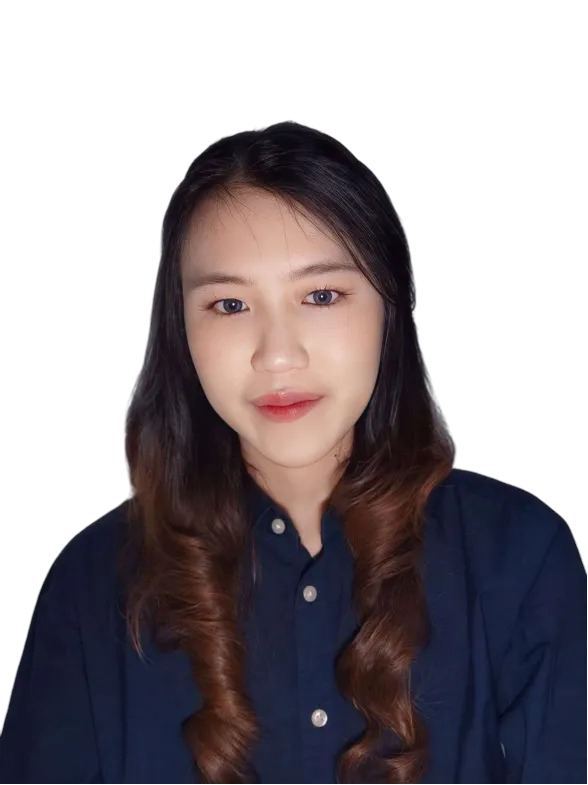
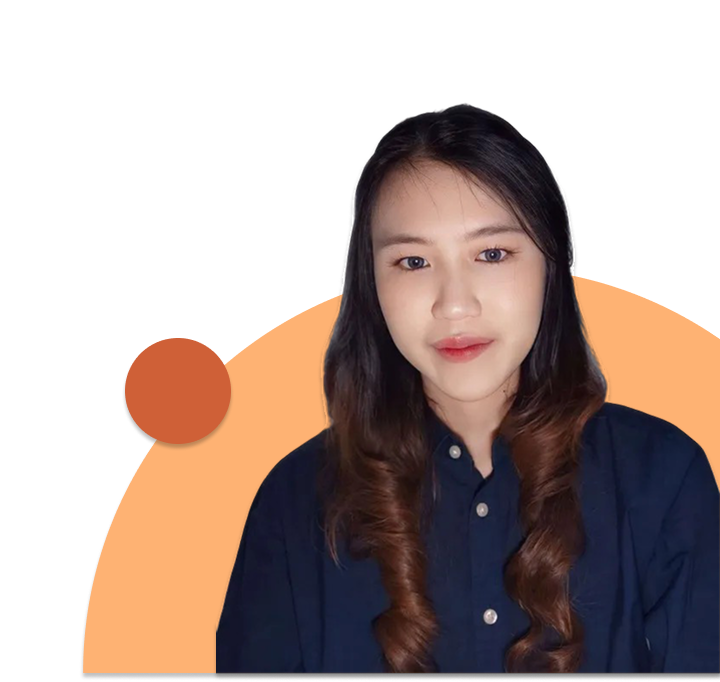
css

diff --git a/resources/css/home.css b/resources/css/home.css
@@ -2,17 +2,7 @@
 @import '/node_modules/primereact/resources/primereact.min.css';
 @import '/node_modules/primeicons/primeicons.css';
 
-/* *{
-    font-size: 1rem;
 
-}
-
-@media only screen and (max-width:768px){
-
-    *{
-        font-size: 0.8rem;
-    }
-} */
 
 h1 {
     font-weight: 900;
@@ -191,10 +181,114 @@ h6 {
 }
 
 .me {
-    width: 42rem;
     position: absolute;
-    top: 6.5rem;
+    top: 3.5rem;
     right: 0;
     bottom: 0;
     z-index: 0;
+}
+
+@media only screen and (max-width:768px){
+
+    *{
+        font-size: 0.8rem;
+    }
+
+
+    h1 {
+        font-size: 2rem;
+    }
+
+    h2 {
+        font-size: 1.75rem;
+    }
+
+    h3 {
+        font-size: 1.5rem;
+    }
+
+    h4 {
+        font-size: 1.25rem;
+    }
+
+    h5 {
+        font-size: 1rem;
+    }
+
+    h6 {
+        font-size: 0.75rem;
+    }
+
+    .navbar {
+        font-size: 0.7rem;
+        width: 100%;
+    }
+
+    .me {
+        position: absolute;
+        top: 18rem;
+        right: 0rem;
+    }
+
+    .me img {
+        height: 20rem;
+    }
+
+
+    .welcome {
+        margin-left: 4rem;
+        width: 20rem;
+    }
+
+    .welcome img{
+        height: 1rem;
+        width: 1rem;
+    }
+
+    .welcome .welcome-text {
+        padding-top: 10rem;
+
+    }
+
+    .welcome .contact {
+        padding-bottom: 10.2rem;
+    }
+
+    .big-orange-blob {
+        width: 1rem;
+        height: 1rem;
+    }
+
+    .small-white-blob {
+        width: 0.5rem;
+        height: 0.5rem;
+    }
+
+    .big-white-blob {
+        width: 1rem;
+        height: 1rem;
+    }
+
+    .small-black-blob {
+        width: 0.5rem;
+        height: 0.5rem;
+    }
+
+    .v-line {
+        height: 100%;
+    }
+
+    .ml-6rem {
+        margin-left: 3rem;
+    }
+
+    .mr-6rem {
+        margin-right: 3rem;
+    }
+
+    .square {
+        width: 5rem;
+        height: 5rem;
+    }
+
 }

diff --git a/resources/js/Pages/Landing/Home.jsx b/resources/js/Pages/Landing/Home.jsx
@@ -50,15 +50,15 @@ const Home = () => {
     }, []);
 
     const scrollToWelcome = () => {
-        welcomeRef?.current?.scrollIntoView({ behaviour: "smooth" });
+        welcomeRef?.current?.scrollIntoView({ behavior: "smooth" });
     };
 
     const scrollToExperience = () => {
-        experienceRef?.current?.scrollIntoView({ behaviour: "smooth" });
+        experienceRef?.current?.scrollIntoView({ behavior: "smooth" });
     };
 
     const scrollToEducation = () => {
-        educationRef?.current?.scrollIntoView({ behaviour: "smooth" });
+        educationRef?.current?.scrollIntoView({ behavior: "smooth" });
     };
 
     const scrollToSkills = () => {
@@ -71,7 +71,7 @@ const Home = () => {
 
     return (
         <div className="" style={{ backgroundColor: "#F7F5F3" }}>
-            <div className="w-full flex flex-row justify-content-center floating">
+            <div className="w-full flex flex-row justify-content-center floating w-screen">
                 <Navbar
                     selectedIndex={selectedIndex}
                     setSelectedIndex={setSelectedIndex}

diff --git a/resources/js/Pages/Landing/HomeSection/Welcome.jsx b/resources/js/Pages/Landing/HomeSection/Welcome.jsx
@@ -2,14 +2,12 @@ const Welcome = ({welcomeRef})=>{
 
     return (
         <div id="welcome" ref={welcomeRef} className="">
-            <div className="me">
-                <img src="/porto/Me.svg"/>
-            </div>
+
             <div className="welcome">
 
                 <div className="welcome-text">
                     <h1>WELCOME</h1>
-                    <p className="font-semibold text-2xl">MY NAME IS BELINDA. CURRENTLY STUDYING AT
+                    <p className="font-semibold text-sm md:text-2xl">MY NAME IS BELINDA. CURRENTLY STUDYING AT
                     CIPUTRA UNIVERSITY. HAVE EXPERIENCE IN MAKING
                     WEBSITE WITH HTML, CSS, PHP, AND LARAVEL.</p>
                 </div>
@@ -36,6 +34,11 @@ const Welcome = ({welcomeRef})=>{
                             <p>Tangerang</p>
                         </div>
                     </div>
+                </div>
+            </div>
+            <div className="w-full">
+                <div className="me">
+                    <img src="/porto/Me.svg"/>
                 </div>
             </div>
 

diff --git a/resources/js/Pages/Landing/HomeSection/Portfolio.jsx b/resources/js/Pages/Landing/HomeSection/Portfolio.jsx
@@ -3,7 +3,7 @@ const Portfolio = ({portfolioRef}) => {
         <div id="portfolio" ref={portfolioRef} style={{backgroundColor:"#CF6037"}}>
             <h1 className="black pt-6rem ml-6rem">PORTFOLIO</h1>
             <div className="pt-6rem flex align-items-center justify-content-center pb-6rem">
-                <a href="">
+                <a href="/">
                     <img src="/porto/laravel portfolio.svg" />
                 </a>
             </div>

diff --git a/vite.config.js b/vite.config.js
@@ -3,6 +3,12 @@ import laravel from 'laravel-vite-plugin';
 import react from '@vitejs/plugin-react';
 
 export default defineConfig({
+    server: {
+        host: '0.0.0.0', // makes it accessible from your LAN
+        hmr: {
+            host: '192.168.205.203', // e.g., 192.168.1.5
+        },
+    },
     plugins: [
         laravel({
             input: 'resources/js/app.jsx',
